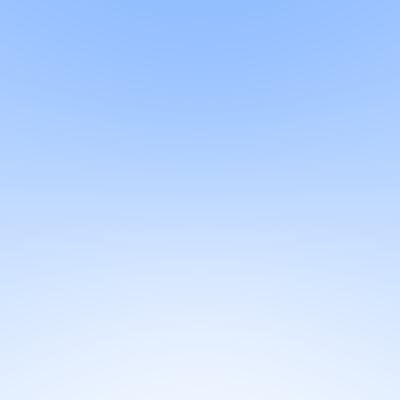
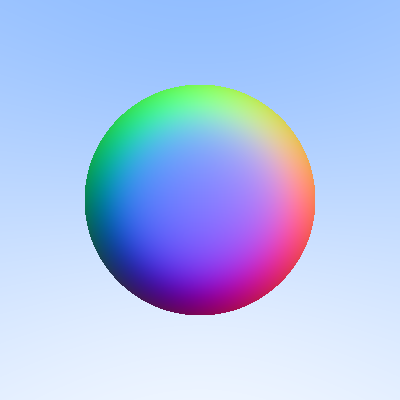
docs: update readme.md

Changed region(s): [[0.21, 0.21, 0.81, 0.81]]

diff --git a/README.md b/README.md
@@ -2,5 +2,7 @@
 
 a raytracer written in Rust , taken from [writing a raytracer in a weekend](https://raytracing.github.io/books/RayTracingInOneWeekend.html)
 
-> current progress is that we are able to render a blue-to-whiote gradinet image using a camera focussed on ray Y coordinate.
+~~current progress is that we are able to render a blue-to-whiote gradinet image using a camera focussed on ray Y coordinate.~~
+
+> we have generated the sphere colored according to its normal vectors.
 > ![Image](./image.png)
